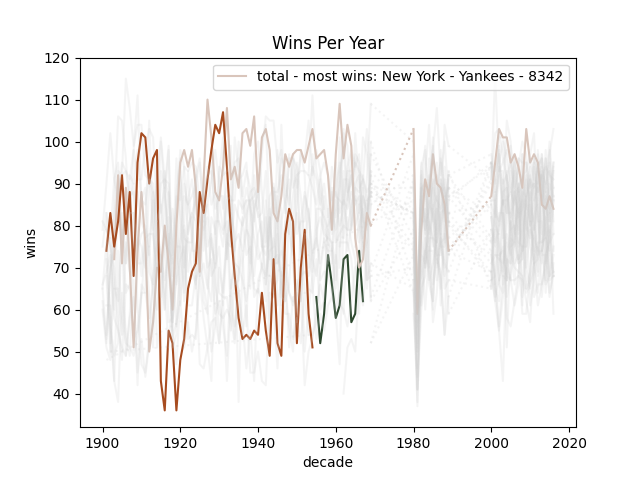
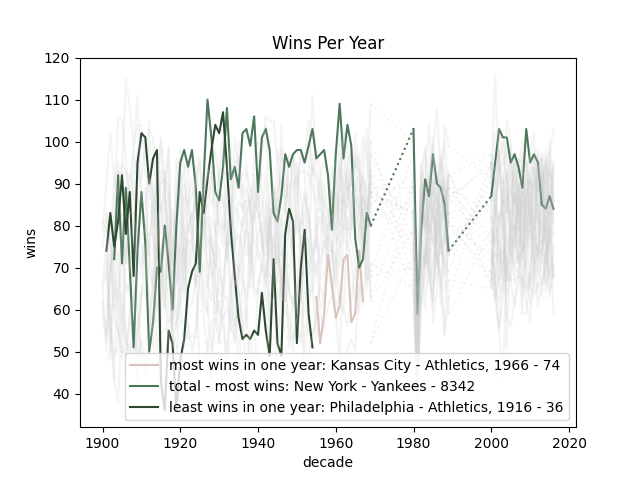
minor sanitation

diff --git a/final-project/src/plots/meta/teams_plot.py b/final-project/src/plots/meta/teams_plot.py
@@ -22,12 +22,14 @@ def active_teams_per_year(df):
     plt.legend()
 
 
-def team_lifetimes(df):
+def comparing_games_played_with_active_teams_per_year(df):
     data_per_year = df.groupby(['date_year']).size().to_dict()
     lifetime_data = calc_team_lifetimes(df)
 
     fig, ax_plot = plt.subplots(figsize=(10, 5))
-    plt_with_disruption(ax_plot, data_per_year.keys(), data_per_year.values(), label='data rows per year')
+    years = data_per_year.keys()
+
+    plt_with_disruption(ax_plot, years, data_per_year.values(), label='total games per year')
     log.debug("team_lifetimes: %s", lifetime_data['team_lifetimes'])
 
     ax_bar = ax_plot.twinx()
@@ -37,14 +39,17 @@ def team_lifetimes(df):
     for curr_team, curr_first_year in sorted_teams_by_first_year.items():
         ax_bar.barh(curr_team, width=team_lifetimes[curr_team], left=curr_first_year, color='gray', alpha=0.5)
 
-    selected_teams = ['Boston - Braves']
+    selected_teams = ['']
     ax_bar.set_yticks(range(len(sorted_teams_by_first_year)))
     ax_bar.set_yticklabels([team if team in selected_teams else '' for team in sorted_teams_by_first_year.keys()])
 
     ax_plot.set_xlabel('decade')
     ax_plot.set_ylabel('gmaes per year')
     ax_bar.set_ylabel('team lifetimes')
-    plt.title('Active teams per year vs. games played')
-    plt.legend()
+    plt.title('Games Played vs. Active Teams Per Year')
+    plt.xlim(min(years), max(years))
 
-    plt.subplots_adjust(right=0.8)
+    ax_plot.legend()
+    # plt.legend()
+
+    # plt.subplots_adjust(right=0.8)

diff --git a/final-project/src/vis_main.py b/final-project/src/vis_main.py
@@ -5,14 +5,14 @@ from src.utils.graph_data_io import read_game_logs, export_graph
 
 df = read_game_logs()
 
-# export_graph(score_plot.v_score_count, df)
-# export_graph(score_plot.h_score_count, df)
-# export_graph(score_plot.vh_score_comparison, df)
-# export_graph(score_plot.winning_teams, df) # TODO hightlights seem a bit off
-#
-# export_graph(event_plot.data_per_year, df)
-# export_graph(event_plot.attendance_per_year, df)
-# export_graph(event_plot.games_per_year_per_team, df)
-#
-# export_graph(teams_plot.active_teams_per_year, df)
-export_graph(teams_plot.team_lifetimes, df)
+export_graph(score_plot.v_score_count, df)
+export_graph(score_plot.h_score_count, df)
+export_graph(score_plot.vh_score_comparison, df)
+export_graph(score_plot.winning_teams, df) # TODO hightlights seem a bit off
+
+export_graph(event_plot.data_per_year, df)
+export_graph(event_plot.attendance_per_year, df)
+export_graph(event_plot.games_per_year_per_team, df)
+
+export_graph(teams_plot.active_teams_per_year, df)
+export_graph(teams_plot.comparing_games_played_with_active_teams_per_year, df)

diff --git a/final-project/src/plots/meta/event_plot.py b/final-project/src/plots/meta/event_plot.py
@@ -13,7 +13,7 @@ def attendance_per_year(df):
     means_v_score = df.groupby(['date_year'])['attendance'].mean().to_dict()
     x_vals = list(means_v_score.keys())
     fig, ax = plt.subplots()
-    plt_with_disruption(ax, x_vals, means_v_score.values(), c='red', label='mean')
+    plt_with_disruption(ax, x_vals, means_v_score.values(), label='mean')
 
     ax.set_xlabel('attendance')
     ax.set_ylabel('decade')

diff --git a/final-project/src/utils/styling_utils.py b/final-project/src/utils/styling_utils.py
@@ -27,7 +27,7 @@ def plt_with_disruption(plt_root, x, y, c='#2b2b2b', alpha=1.0,
         start = idx + 1
 
     # Plot the remaining line segment
-    plt_root.plot(x[start:], y[start:], c=c, alpha=alpha)
+    plt_root.plot(x[start:], y[start:], c=c, alpha=alpha, label=label)
 
 
 def plot_disruption_warning(ax):

diff --git a/README.md b/README.md
@@ -10,10 +10,26 @@
 - solutions need to be published to Stud.IP in order to pass the course
 
 ## Final Project
+
+### General
 - presentation of the results serves as an oral exam
+- available graphs at [./graphs/](./graphs/)
+- regenerate code by running (`./src/vis_main.py`)[python3 ./src/vis_main.py]
 - dataset source [data world](https://data.world/dataquest/mlb-game-logs)
   - user: `spam-sh`
   - pass: `abc1234abc1234`
 - since the dataset is too large for a GitHub project, download it locally to the following directory
   - `./datasets/retrosheets/game-logs_combined/game_logs_data-world.csv`
+
+### Progress
+- for detailed explanation see the github project (board)[https://github.com/users/derMacon/projects/4/views/1]
+- available graphs at [./graphs/](./graphs/)
+- *event plot*: more or less meta information about the dataset
+   - attendance per year
+   - data per year
+   - games per year per team
+- *team plot*: more plots
+   - home and visiting scores over time
+   - winning stats for teams
+
 
